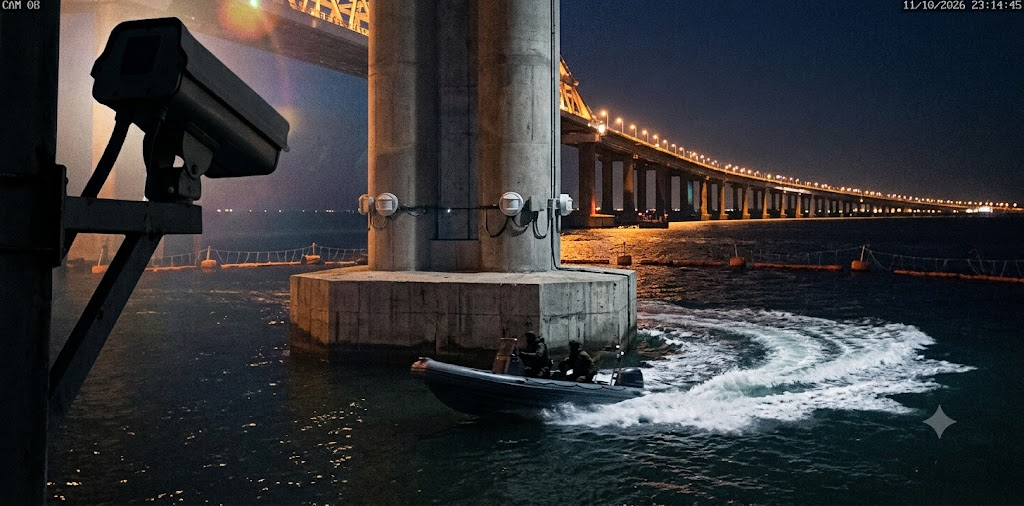
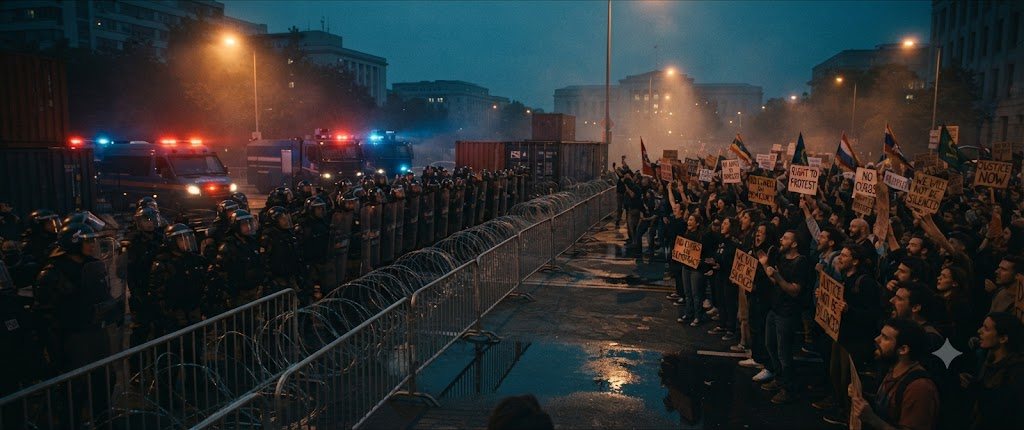
Add word of the day: thwart

diff --git a/word-of-the-day/thwart/index.html b/word-of-the-day/thwart/index.html
@@ -1,0 +1,85 @@
+<!DOCTYPE html>
+<html lang="ko">
+<head>
+    <meta charset="UTF-8">
+    <meta name="viewport" content="width=device-width, initial-scale=1.0">
+    <title>thwart | 좌절시키다, 방해하다 | Word of the Day · 시사영단어</title>
+    <meta name="description" content="thwart 뜻과 예문. 좌절시키다, 방해하다의 의미와 thwart protesters, thwart efforts, thwart attackers 표현.">
+    <meta name="robots" content="index, follow">
+    <meta name="author" content="시사영단어">
+    <link rel="canonical" href="https://englisheasystudy.com/word-of-the-day/thwart">
+    <meta property="og:type" content="article">
+    <meta property="og:locale" content="ko_KR">
+    <meta property="og:site_name" content="시사영단어">
+    <meta property="og:title" content="thwart | 좌절시키다, 방해하다">
+    <meta property="og:description" content="thwart 뜻과 예문. 좌절시키다, 방해하다의 의미와 thwart protesters, thwart efforts, thwart attackers 표현.">
+    <meta property="og:url" content="https://englisheasystudy.com/word-of-the-day/thwart">
+    <meta name="twitter:card" content="summary">
+    <meta name="twitter:title" content="thwart | 좌절시키다, 방해하다">
+    <meta name="twitter:description" content="thwart 뜻과 예문. 좌절시키다, 방해하다의 의미와 thwart protesters, thwart efforts, thwart attackers 표현.">
+    <meta name="google-adsense-account" content="ca-pub-6108574897789788">
+    <script async src="https://pagead2.googlesyndication.com/pagead/js/adsbygoogle.js?client=ca-pub-6108574897789788" crossorigin="anonymous"></script>
+    <script type="application/ld+json">{"@context":"https://schema.org","@type":"Article","headline":"thwart | 좌절시키다, 방해하다","description":"thwart 뜻과 예문. 좌절시키다, 방해하다의 의미와 thwart protesters, thwart efforts, thwart attackers 표현.","author":{"@type":"Organization","name":"시사영단어","alternateName":"News English Lab"},"publisher":{"@type":"Organization","name":"시사영단어","alternateName":"News English Lab","url":"https://englisheasystudy.com"},"datePublished":"2026-10-20","dateModified":"2026-10-20","mainEntityOfPage":{"@type":"WebPage","@id":"https://englisheasystudy.com/word-of-the-day/thwart"},"inLanguage":["ko","en"]}</script>
+    <link href="https://cdn.jsdelivr.net/npm/bootstrap@5.3.3/dist/css/bootstrap.min.css" rel="stylesheet">
+    <link href="https://fonts.googleapis.com/css2?family=IBM+Plex+Sans:wght@400;500;600&display=swap" rel="stylesheet">
+    <link href="https://fonts.googleapis.com/css2?family=Noto+Sans+KR:wght@400;500;600;700&display=swap" rel="stylesheet">
+    <link rel="stylesheet" href="../../page30_viewpost.css?v=20260628">
+    <link rel="stylesheet" href="../../page30_viewpost_wordofday.css?v=20261020pad1">
+
+    <link rel="stylesheet" href="../../title-text-sharp.css?v=20260610">
+    <link rel="stylesheet" href="../../viewpost-like.css?v=20260906gray">
+    <link rel="stylesheet" href="../../nav-home-menu.css?v=20260617">
+    <link rel="stylesheet" href="../../navbar-unified.css?v=20260612c">
+    <link rel="stylesheet" href="../../weather-banner.css?v=20260612g">
+    <link rel="stylesheet" href="../../world-clock.css?v=20260612g">
+    <link rel="stylesheet" href="../../redesign-tokens.css?v=20261020rd27">
+    <link rel="stylesheet" href="../../redesign-article.css?v=20261020rd27">
+    <link rel="preload" href="../../redesign-article.js?v=20261020rd27" as="script">
+    <style id="rd-fouc-guard">
+      /* SEO 구형 본문이 redesign 전에 깜빡이지 않도록 (!important 금지: 키프레임 fallback이 무시됨) */
+      body[data-nv-board]:not(.rd-ready) #post-container {
+        visibility: hidden;
+      }
+      /* QUICK REVIEW 배너 강제 숨김 */
+      .rd-review { display: none !important; }
+    </style>
+    <script>
+    (function () {
+      function rdReady() {
+        document.documentElement.classList.add('rd-ready');
+        if (document.body) document.body.classList.add('rd-ready');
+      }
+      /* header-only 보드가 rd-ready를 안 켜도 본문이 영구 숨김되지 않게 */
+      setTimeout(rdReady, 1200);
+    })();
+    </script>
+    <noscript><style>body[data-nv-board] #post-container{visibility:visible!important}</style></noscript>
+</head>
+<body class="" data-nv-slug="thwart" data-nv-board="word-of-the-day">
+    <nav class="navbar navbar-expand-lg navbar-dark bg-primary fixed-top" aria-label="주 메뉴">
+        <div class="container-fluid">
+            <a class="navbar-brand" href="../../word-of-the-day-list.html">Word of the Day</a>
+            <div data-nav-home-menu class="nav-home-menu-slot ms-auto"></div>
+        </div>
+    </nav>
+    <main id="post-container" role="main">
+        <header id="post-header">
+            <h1 id="post-title">thwart | 좌절시키다, 방해하다</h1>
+            <p id="post-meta"><time datetime="2026-10-20">2026.10.20  00:00</time><span class="post-meta-sep" aria-hidden="true"> · </span><span class="post-meta-part">조회 <span class="post-meta-views-num">0</span></span><span class="post-meta-sep" aria-hidden="true"> · </span><span class="post-meta-part">추천수 <span class="post-meta-likes-num">0</span></span></p>
+        </header>
+        <article id="post-content">
+            <div id="post-message" class="post-message-body"><div class="wotd-word"><img class="wotd-hero-image" src="/resources/thwart.jpg" alt="thwart" loading="lazy"><span class="wotd-ipa">/θwɔːrt/</span><span class="wotd-ipa-ko">스워트</span><div class="wotd-pos" data-pos="동사" data-primary="1"><span class="wotd-meaning">좌절시키다, 방해하다</span><span class="wotd-meaning-sub">(계획·시도·공격 등을) 가로막다</span></div><p class="wotd-core">누군가의 계획·행동·효과가 <em class="wotd-core-em">뜻대로 되지 못하게</em> 막거나 무산시키다</p><p class="wotd-nuance">thwart는 단순한 ‘막다(stop)’보다, 상대의 목적 달성을 <mark>좌절·무산시킨다</mark>는 뉘앙스가 강합니다. 시위 차단, 치료 방해, 공격 방어처럼 ‘상대가 하려던 것을 가로막는’ 뉴스·과학·설명문에서 자주 나옵니다.</p><div class="wotd-compare"><span class="wotd-cmp-en">stop</span><span class="wotd-cmp-ko">멈추다 · 일상적, 중립적</span></div><div class="wotd-compare" data-active="1"><span class="wotd-cmp-en">thwart</span><span class="wotd-cmp-ko">좌절시키다 · 목적 달성을 가로막음</span></div><div class="wotd-col"><span class="wotd-col-en">thwart protesters</span><span class="wotd-col-ko">시위대를 가로막다</span></div><div class="wotd-col"><span class="wotd-col-en">thwart efforts</span><span class="wotd-col-ko">노력을 저해하다, 무산시키다</span></div><div class="wotd-col"><span class="wotd-col-en">thwart attackers</span><span class="wotd-col-ko">공격자를 좌절시키다</span></div><section class="wotd-ex" data-tag="뉴스 예문"><p class="wotd-ex-en">Police refused them permission to protest and unprecedented curbs were in place to <mark>thwart</mark> the protesters from reaching the venue.</p><p class="wotd-ex-ko">경찰은 시위 허가를 거부했고, 시위대가 행사장에 도달하지 못하도록 전례 없는 통제가 시행되었다.</p></section><section class="wotd-ex"><p class="wotd-ex-en">New research suggests that using vitamins can <mark>thwart</mark> cancer-fighting efforts.</p><p class="wotd-ex-ko">새로운 연구결과는 비타민을 사용하는 것이 항암효과를 저해시킬 수 있다는 점을 보여준다.</p></section><section class="wotd-ex"><p class="wotd-ex-en">This combative guy shoots the barbs of stinging hairs to <mark>thwart</mark> its attackers.</p><p class="wotd-ex-ko">이 전투적인 녀석은 이러한 날카로운 끝을 가진 따끔한 털을 쏘아내서 공격자를 좌절시킨다.</p></section><p class="wotd-takeaway">thwart는 ‘막는다’보다 ‘상대의 목적을 좌절시킨다’에 가깝다. from ~ing와 함께 쓰면 ‘~하지 못하게 가로막다’로 자주 쓰인다.</p><div class="wotd-glance"><div><dt>품사</dt><dd>동사</dd></div><div><dt>비슷한 말</dt><dd>foil, hinder, frustrate</dd></div><div><dt>반대 말</dt><dd>aid, facilitate, enable</dd></div><div><dt>자주 나오는 곳</dt><dd>뉴스·과학·설명문</dd></div></div></div></div>
+        </article>
+    </main>
+    <script src="../../page30-api-config.js"></script>
+    <script src="../../viewpost-seo.js?v=20260622a"></script>
+    <script src="../../viewpost-meta.js?v=20260627"></script>
+    <script src="../../viewpost-like.js?v=20260906gray"></script>
+    <script src="../../viewpost-rd-ready.js?v=20261020rd24"></script>
+    <script src="https://cdn.jsdelivr.net/npm/bootstrap@5.3.3/dist/js/bootstrap.bundle.min.js"></script>
+    <script src="../../nav-home-menu.js?v=20260720a"></script>
+    <script src="../../page30_viewpost_wordofday.js?v=20261020rd30"></script>
+    <script src="../../weather-banner.js?v=20260612e" defer></script>
+    <script src="../../world-clock.js?v=20260612g" defer></script>
+</body>
+</html>

diff --git a/backend/scripts/send-wordofday-entry.js b/backend/scripts/send-wordofday-entry.js
@@ -28,24 +28,24 @@ import { applySeoAfterUpload, toIsoDateOnly, SITE_ORIGIN } from './voca-seo.js';
 // ========== 여기만 수정 ==========
 // redesign-word 시안용: .wotd-word / .wotd-core / .wotd-ex / .wotd-col …
 
-const imageSrc = '/resources/commit.jpg';
+const imageSrc = '/resources/thwart.jpg';
 
 const entry = {
-  title: 'commit | 약속하다, 저지르다, 전념하다',
+  title: 'thwart | 좌절시키다, 방해하다',
 
   // 태그 사이 빈 줄/개행 넣지 말 것
-  message: `<div class="wotd-word"><img class="wotd-hero-image" src="${imageSrc}" alt="commit" loading="lazy"><span class="wotd-ipa">/kəˈmɪt/</span><span class="wotd-ipa-ko">커밋</span><div class="wotd-pos" data-pos="동사" data-primary="1"><span class="wotd-meaning">약속하다, (자원·주식 등을) 투입하다</span><span class="wotd-meaning-sub">(범죄 등을) 저지르다; (자신·결정에) 전념하다</span></div><p class="wotd-core">돈·시간·주식 등을 <em class="wotd-core-em">공식적으로 내놓거나</em>, 잘못을 저지르거나, 결정에 자신을 묶다</p><p class="wotd-nuance">commit은 문맥에 따라 뜻이 크게 갈립니다. 뉴스·비즈니스에서는 <mark>주식·자금·자원을 출연·투입한다</mark>는 뜻이 흔하고, commit a crime처럼 ‘저지르다’, commit yourself처럼 ‘결정·전념하다’로도 씁니다. 같은 철자라도 목적어를 보면 의미가 바로 갈립니다.</p><div class="wotd-compare"><span class="wotd-cmp-en">promise</span><span class="wotd-cmp-ko">약속하다 · 말의 약속</span></div><div class="wotd-compare" data-active="1"><span class="wotd-cmp-en">commit</span><span class="wotd-cmp-ko">출연·투입·저지름·전념 · 행동·책임이 따름</span></div><div class="wotd-col"><span class="wotd-col-en">commit shares / money</span><span class="wotd-col-ko">주식·자금을 출연하다, 투입하다</span></div><div class="wotd-col"><span class="wotd-col-en">commit a crime</span><span class="wotd-col-ko">범죄를 저지르다</span></div><div class="wotd-col"><span class="wotd-col-en">commit yourself</span><span class="wotd-col-ko">결정하다, 전념하다, 약정하다</span></div><section class="wotd-ex" data-tag="뉴스 예문"><p class="wotd-ex-en">The pledge comes a day after AI competitor Anthropic said it plans to <mark>commit</mark> 5% of its shares to a new “public benefit fund” with the flexibility to make charitable donations or direct money to “specific populations.”</p><p class="wotd-ex-ko">이번 약속은 AI 경쟁사 앤트로픽이 자사 주식의 5%를 자선 기부나 특정 계층 지원에 활용할 수 있는 새로운 공익기금에 출연하겠다는 계획을 밝힌 지 하루 만에 나왔다.</p></section><section class="wotd-ex"><p class="wotd-ex-en">People who <mark>commit</mark> such crimes aren’t normal.</p><p class="wotd-ex-ko">그러한 범죄를 저지르는 사람들은 정상이 아니다.</p></section><section class="wotd-ex"><p class="wotd-ex-en">You don’t have to <mark>commit</mark> yourself now, just think about it.</p><p class="wotd-ex-ko">지금 결정하지 않으셔도 됩니다. 그냥 생각을 해 보세요.</p></section><p class="wotd-takeaway">commit은 ‘약속’보다 한 걸음 더 나아가, 자원 투입·범죄 행위·자기 결정처럼 결과가 따르는 행동을 가리킨다. 목적어(shares, crime, yourself)를 보면 뜻이 갈린다.</p><div class="wotd-glance"><div><dt>품사</dt><dd>동사</dd></div><div><dt>비슷한 말</dt><dd>pledge, perpetrate, dedicate</dd></div><div><dt>반대 말</dt><dd>withdraw, refrain</dd></div><div><dt>자주 나오는 곳</dt><dd>경제·사회·일상 회화</dd></div></div></div>`,
+  message: `<div class="wotd-word"><img class="wotd-hero-image" src="${imageSrc}" alt="thwart" loading="lazy"><span class="wotd-ipa">/θwɔːrt/</span><span class="wotd-ipa-ko">스워트</span><div class="wotd-pos" data-pos="동사" data-primary="1"><span class="wotd-meaning">좌절시키다, 방해하다</span><span class="wotd-meaning-sub">(계획·시도·공격 등을) 가로막다</span></div><p class="wotd-core">누군가의 계획·행동·효과가 <em class="wotd-core-em">뜻대로 되지 못하게</em> 막거나 무산시키다</p><p class="wotd-nuance">thwart는 단순한 ‘막다(stop)’보다, 상대의 목적 달성을 <mark>좌절·무산시킨다</mark>는 뉘앙스가 강합니다. 시위 차단, 치료 방해, 공격 방어처럼 ‘상대가 하려던 것을 가로막는’ 뉴스·과학·설명문에서 자주 나옵니다.</p><div class="wotd-compare"><span class="wotd-cmp-en">stop</span><span class="wotd-cmp-ko">멈추다 · 일상적, 중립적</span></div><div class="wotd-compare" data-active="1"><span class="wotd-cmp-en">thwart</span><span class="wotd-cmp-ko">좌절시키다 · 목적 달성을 가로막음</span></div><div class="wotd-col"><span class="wotd-col-en">thwart protesters</span><span class="wotd-col-ko">시위대를 가로막다</span></div><div class="wotd-col"><span class="wotd-col-en">thwart efforts</span><span class="wotd-col-ko">노력을 저해하다, 무산시키다</span></div><div class="wotd-col"><span class="wotd-col-en">thwart attackers</span><span class="wotd-col-ko">공격자를 좌절시키다</span></div><section class="wotd-ex" data-tag="뉴스 예문"><p class="wotd-ex-en">Police refused them permission to protest and unprecedented curbs were in place to <mark>thwart</mark> the protesters from reaching the venue.</p><p class="wotd-ex-ko">경찰은 시위 허가를 거부했고, 시위대가 행사장에 도달하지 못하도록 전례 없는 통제가 시행되었다.</p></section><section class="wotd-ex"><p class="wotd-ex-en">New research suggests that using vitamins can <mark>thwart</mark> cancer-fighting efforts.</p><p class="wotd-ex-ko">새로운 연구결과는 비타민을 사용하는 것이 항암효과를 저해시킬 수 있다는 점을 보여준다.</p></section><section class="wotd-ex"><p class="wotd-ex-en">This combative guy shoots the barbs of stinging hairs to <mark>thwart</mark> its attackers.</p><p class="wotd-ex-ko">이 전투적인 녀석은 이러한 날카로운 끝을 가진 따끔한 털을 쏘아내서 공격자를 좌절시킨다.</p></section><p class="wotd-takeaway">thwart는 ‘막는다’보다 ‘상대의 목적을 좌절시킨다’에 가깝다. from ~ing와 함께 쓰면 ‘~하지 못하게 가로막다’로 자주 쓰인다.</p><div class="wotd-glance"><div><dt>품사</dt><dd>동사</dd></div><div><dt>비슷한 말</dt><dd>foil, hinder, frustrate</dd></div><div><dt>반대 말</dt><dd>aid, facilitate, enable</dd></div><div><dt>자주 나오는 곳</dt><dd>뉴스·과학·설명문</dd></div></div></div>`,
 
   nickname: 'admin',
 
-  password: 'seed_password_commit',
+  password: 'seed_password_thwart',
 
   isSecret: false,
 
-  slug: 'commit',
+  slug: 'thwart',
 
   metaDescription:
-    'commit 뜻과 예문. 약속하다·저지르다·전념하다의 의미와 commit shares, commit a crime, commit yourself 표현.',
+    'thwart 뜻과 예문. 좌절시키다, 방해하다의 의미와 thwart protesters, thwart efforts, thwart attackers 표현.',
 
   datePublished: '2026-10-20',
 };
